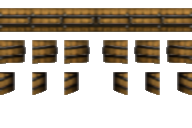
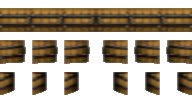
sprite animation fixed

diff --git a/gslib/character_objects.py b/gslib/character_objects.py
@@ -16,8 +16,8 @@ class SmallDoor(Character):
         self.max_frames = 0
         self.sprite_height = 32
         self.sprite_width = 32
-        self.states = {0: {'animation_state': 2, 'collision_weight': 0},
-                       1: {'animation_state': 0, 'collision_weight': 100}}
+        self.states = {0: {'animation_state': 0, 'collision_weight': 0},
+                       1: {'animation_state': 2, 'collision_weight': 100}}
         self.state_index = 1  # make sure you set this after the states are defined, so the properties get updated
 
         self.possessed_function = fear_functions.flip_state(self)

diff --git a/gslib/game_object.py b/gslib/game_object.py
@@ -283,9 +283,9 @@ class GameObject(object):
             if self.animation_state == ANIM_LEFTWALK:
                 self.animation_state = ANIM_LEFTIDLE
         else:
-            if self.velocity[1] > 0:
+            if self.velocity[1] < 0:
                 self.animation_state = ANIM_DOWNWALK
-            elif self.velocity[1] < 0:
+            elif self.velocity[1] > 0:
                 self.animation_state = ANIM_UPWALK
 
             if self.velocity[0] > 0:

diff --git a/gslib/graphics.py b/gslib/graphics.py
@@ -178,6 +178,7 @@ class Graphics(object):
                 if o.possessing:
                     continue
 
+            vo = o.sprite_sheet.height
             texture = o.sprite_sheet.get_region(o.frame_rect.x, o.frame_rect.y, o.sprite_width, o.sprite_height)
             object_sprite = sprite.Sprite(texture)
             x = o.coord[0]
